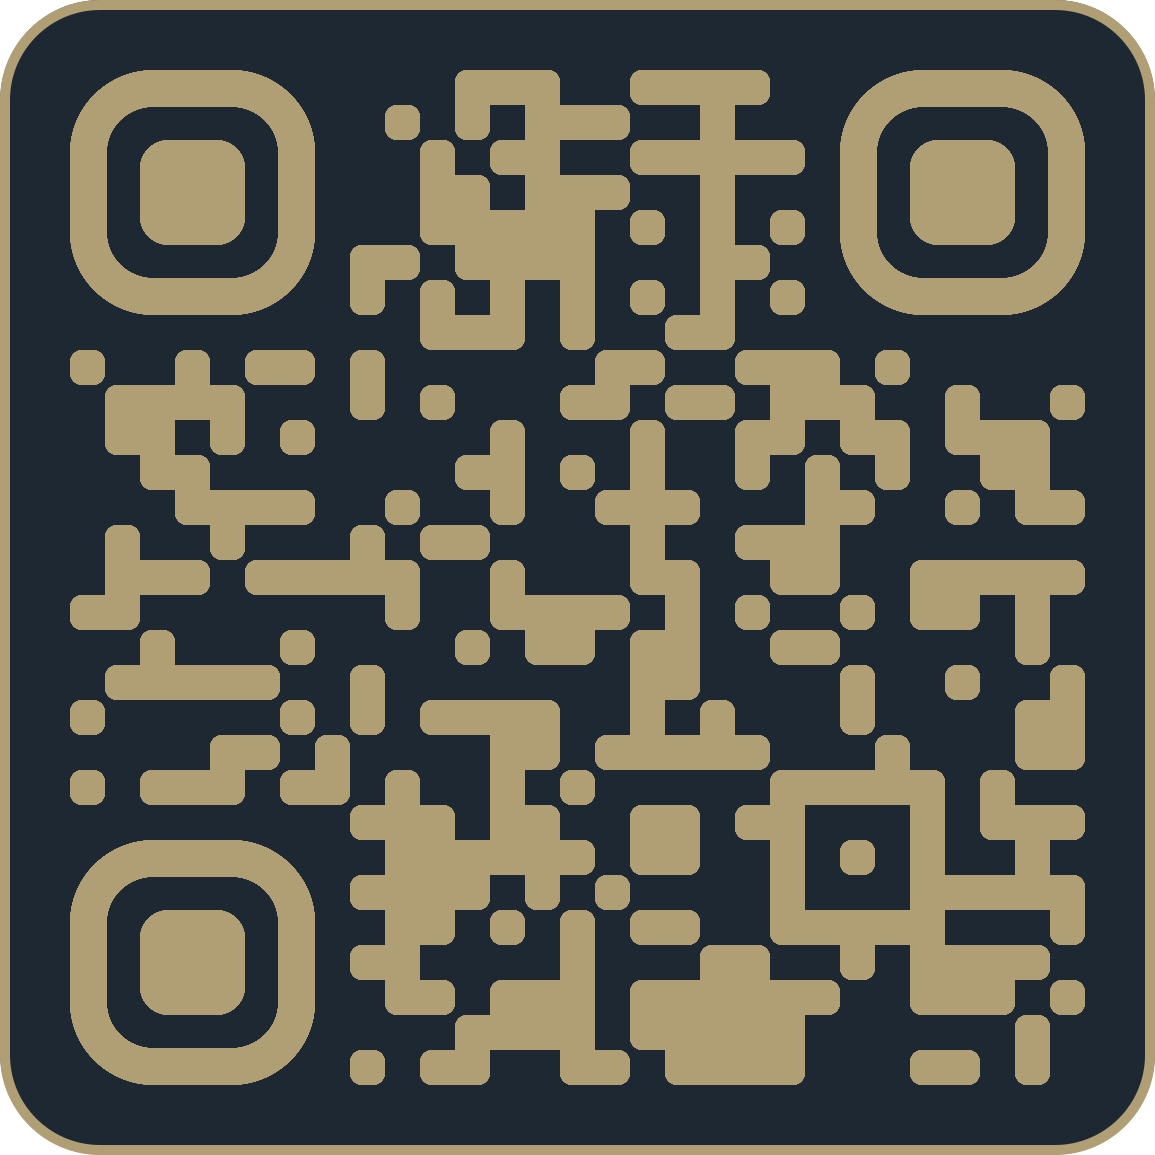
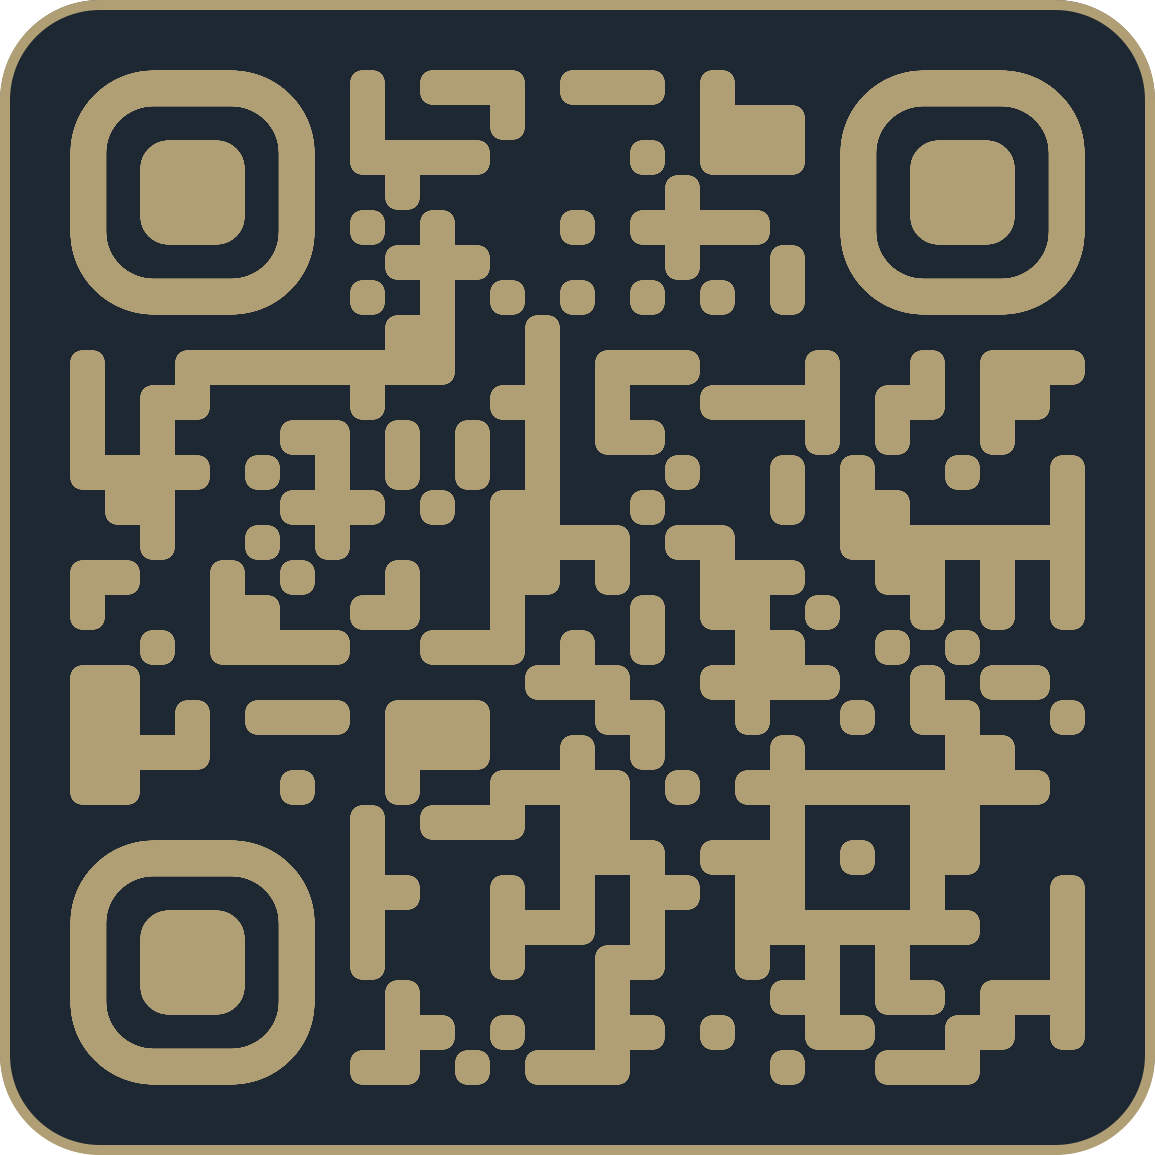
destination changed

diff --git a/index.html b/index.html
@@ -125,10 +125,10 @@
 
       <a
         id="fallbackUrl"
-        href="https://ar-ghost-city.netlify.app/"
+        href="https://ryanpote.com/theghostcity-ar"
         target="_blank">
 
-        https://ar-ghost-city.netlify.app/
+        https://ryanpote.com/theghostcity-ar
 
       </a>
 
